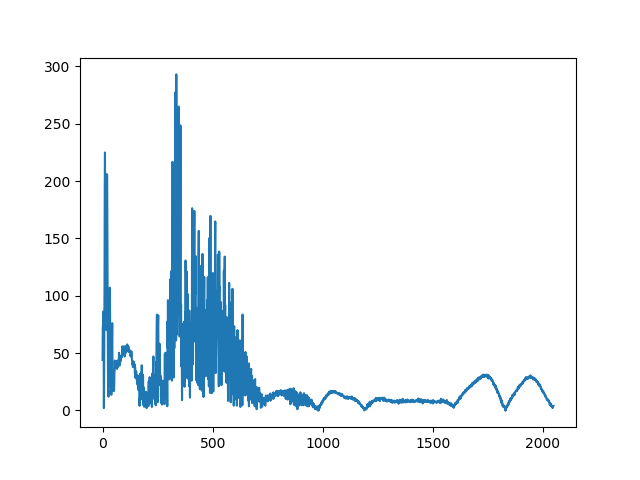
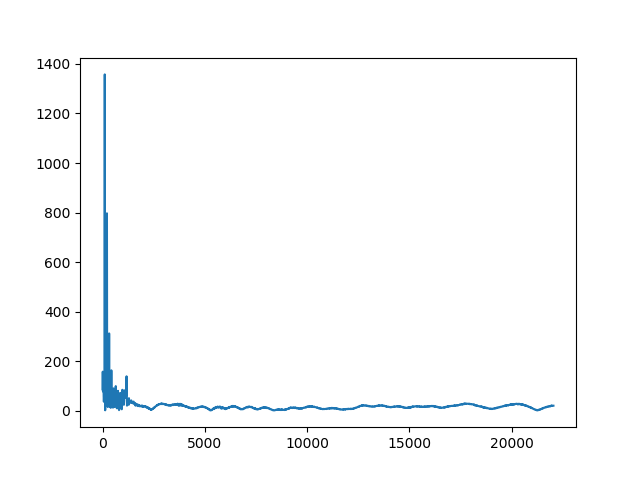
loudness display

diff --git a/voice/voice/voiceAnalysis.cpp b/voice/voice/voiceAnalysis.cpp
@@ -6,7 +6,7 @@ void VoiceAnalyzer::runVoiceAnalysis(signed short* voice, size_t size) {
 	//this function has responsibility to make sure that input to fft is correct
 	//default size: 4096
 
-	if (size <= NFFT) {
+	//if (size <= NFFT) {
 
 		kissFFT(voice);
 
@@ -17,11 +17,11 @@ void VoiceAnalyzer::runVoiceAnalysis(signed short* voice, size_t size) {
 		}
 		samples.getLast()->loudness = acc / size;
 		//std::cout << acc << "\tAcc " << acc / size << "\tL" << std::endl;
-	}
-	else {
-		std::cerr << "runVoiceAnalysis sie zjebalo " << size << std::endl;
+	//}
+	//else {
+	//	std::cerr << "runVoiceAnalysis sie zjebalo " << size << std::endl;
 
-	}
+	//}
 
 }
 
@@ -41,4 +41,18 @@ void VoiceAnalyzer::kissFFT(const kiss_fft_scalar in[NFFT]) {
 
 		//std::cout << "FFT!\n";
 	}
+}
+
+void VoiceAnalyzer::displayFFT() {
+
+	char c = 219;
+	SampleData* sdp = samples.getLast();
+
+	for (int i = 0; i < 100; ++i) {
+		if (sdp->loudness > i * 45)
+			std::cout << "\xdb";
+		else
+			std::cout << " ";
+	}
+	std::cout << "\r";
 }

diff --git a/voice/voice/voiceTools.cpp b/voice/voice/voiceTools.cpp
@@ -17,6 +17,8 @@ bool VoiceRecorder::onProcessSamples(const sf::Int16* samples, std::size_t sampl
 	commandBuffer.put(samples, sampleCount);
 	//runVoiceAnalysis(commandBuffer.getFFTBuffer(), NFFT, fftOut);
 	analyzer.runVoiceAnalysis(const_cast<signed short*>(samples), sampleCount);
+	analyzer.displayFFT();
+
 	return true;
 }
 

diff --git a/plotGen/plotGenFFT.py b/plotGen/plotGenFFT.py
@@ -20,9 +20,11 @@ ax.plot(X[0:int((len(X)/2)+1)])
 with open('..\\voice\\voice\\fft.txt','r') as sampleFile:
 	a = [math.sqrt(int(x)) for x in sampleFile.read().split()]
 	
+freqs = [f*44100/4096 for f in range(len(a))]
+
 
 fig, ax = plt.subplots()
-ax.plot(a)
+ax.plot(freqs, a)
 
 
 print(len(a))

diff --git a/voice/voice/voiceAnalysis.h b/voice/voice/voiceAnalysis.h
@@ -20,6 +20,7 @@ public:
 
 	void runVoiceAnalysis(signed short* voice, size_t size);
 	void kissFFT(const kiss_fft_scalar in[NFFT]);
+	void displayFFT();
 
 	VoiceAnalyzer() :samples(SampleData()) {};
 };

diff --git a/voice/voice/main.cpp b/voice/voice/main.cpp
@@ -31,7 +31,6 @@ int main() {
 	sound.setBuffer(buffer);
 	sound.play();
 	*/
-	cout << "zamknij";
 	getchar();
 	recorder.stop();
 	return 0;
